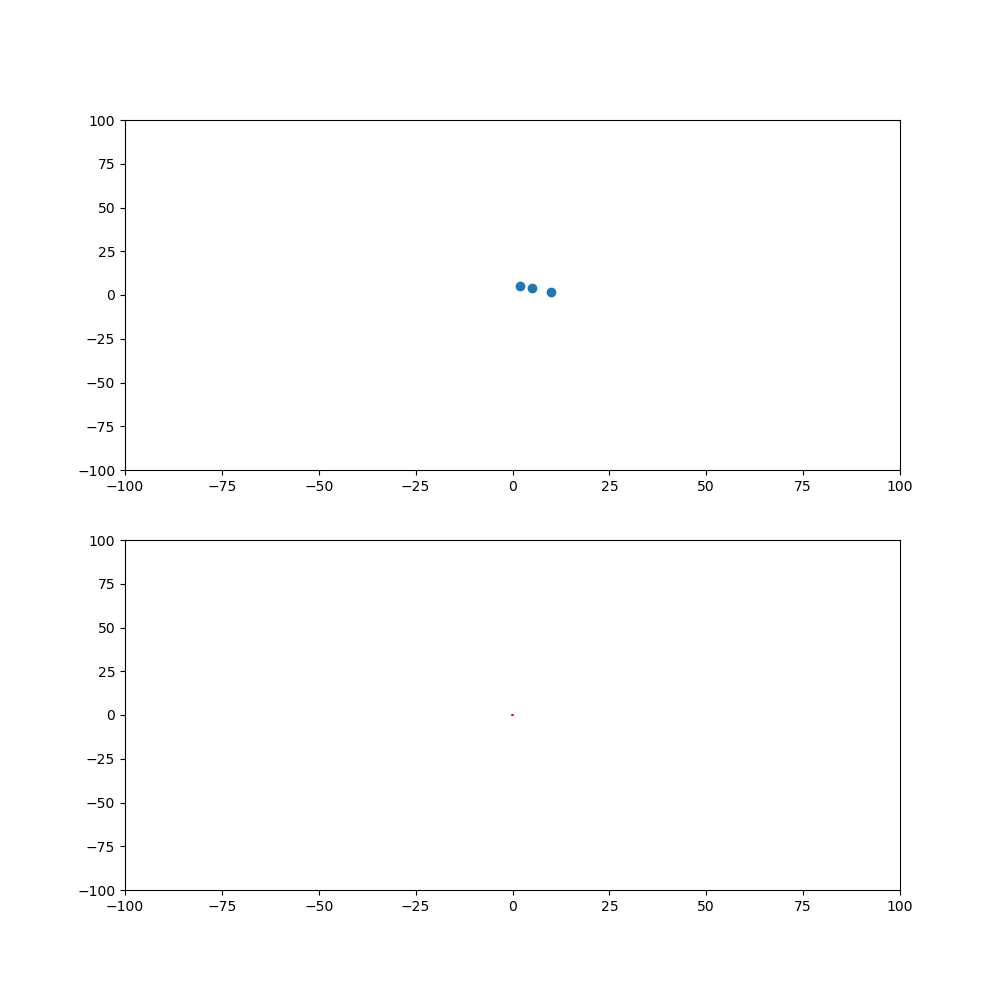
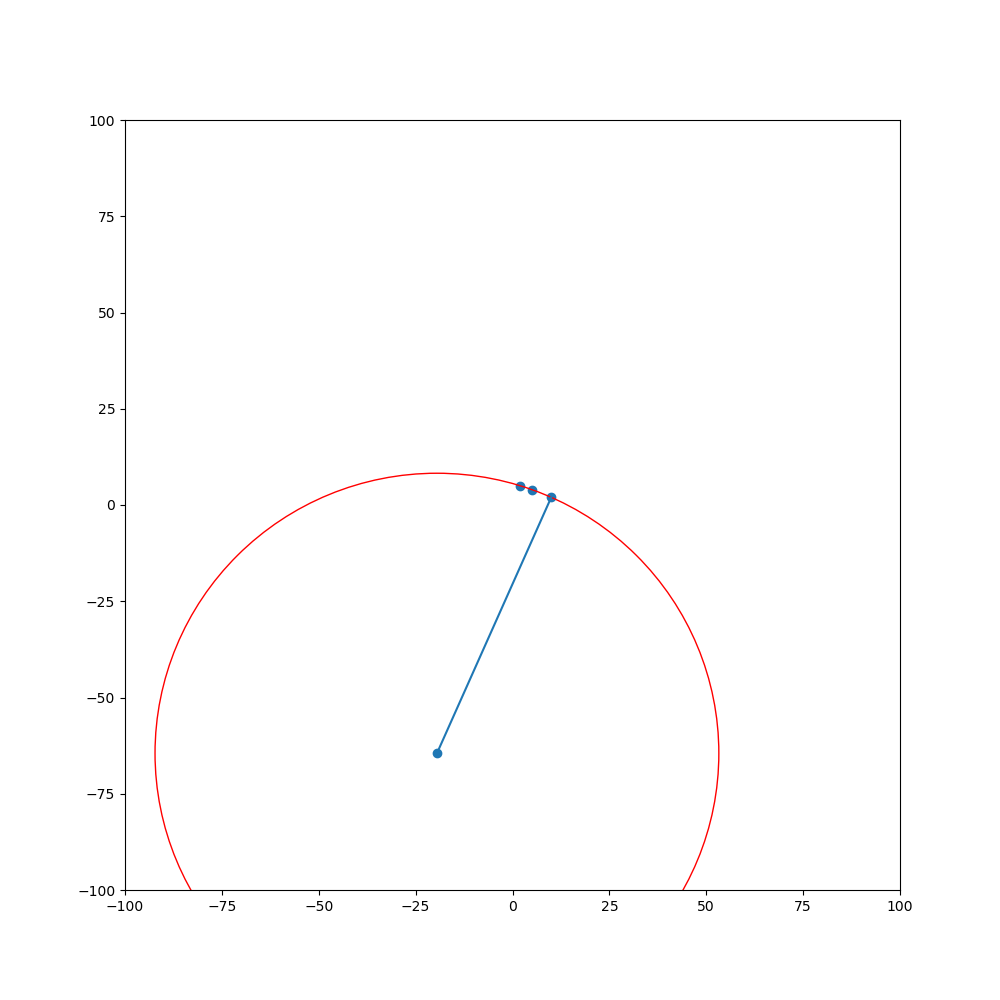
-
-

diff --git a/image_task/image_preprocessing/find_one_circle.py b/image_task/image_preprocessing/find_one_circle.py
@@ -2,11 +2,12 @@ import numpy as np
 import torch
 import matplotlib.pyplot as plt
 from matplotlib.patches import Circle
-# import tensorflow as tf
+import tensorflow as tf
 import math
 import scipy
+import time
 
-# tf.enable_eager_execution()
+tf.enable_eager_execution()
 
 
 def gauss_newton():
@@ -30,13 +31,20 @@ def using_three_points():
         @param * psRelMatchPos:  원의 중심점 좌표
         @param * psCenterPoint:  세점들의 좌표
         @return Error code
+        
+    1. figure는 전체 하얀 종이, Axes는 네모로 나누어지는 구간이라고 생각하시면 됩니다. plt.subplots()에 입력하는 ncols, nrows에 따라 가로 세로 공간이 나누어집니다.
+    2. 네 그렇습니다. 참고로 nrows=2, ncols=2로 입력하시면 네 개로 나누어집니다. 이 때는 2차원 배열이 되기 때문에 ax[1,0] 식으로 지정해야 합니다.
+    3. 객체를 Axes에 붙이는 역할을 합니다. 포스트잇을 A4에 붙이듯 딱 붙이는 명령입니다.
+        
     """
-    
-    # sympy나 scipy
     
     x = [2, 5, 10]
     y = [5, 4, 2]
     
+    # x = [2, 10, 6]
+    # y = [5, 3, 2]
+    
+    # circle 구하기 http://egloos.zum.com/heilow/v/418569
     d1=(x[1]-x[0])/(y[1]-y[0]);
     d2=(x[2]-x[1])/(y[2]-y[1]);
     
@@ -49,38 +57,62 @@ def using_three_points():
     print(cy)
     print(r)
     
-    circle1 = plt.Circle((0, 0), 0.2, color='r', fill=False)
-    # scatt = plt.scatter(x, y)
+    x.append(cx)
+    y.append(cy)
     
-    fig, ax = plt.subplots(nrows=2, ncols=1, figsize=(10, 10))
     
-    ax[0].set_xlim([-100, 100])
-    ax[0].set_ylim([-100, 100])
-    ax[1].set_xlim([-100, 100])
-    ax[1].set_ylim([-100, 100])
+    # 접선방정식 구하기 m = 기울기, n = y 절편
+    m = (-1)*((cx-x[2])/[cy-y[2]])
+    n = (-1)*(m*x[2]) + y[2]
     
-    ax[0].scatter(x, y)
-    ax[1].add_patch(circle1)
+    x_line_point_list = list()
+    y_line_point_list = list()
+    
+    x_val1 = 1
+    x_val2 = 2
+    
+    y_1 = m*x_val1 + n
+    y_2 = m*x_val2 + n
+    
+    x_line_point_list.append(x_val1)
+    x_line_point_list.append(x_val2)    
+    y_line_point_list.append(y_1)    
+    y_line_point_list.append(y_2)    
+    
+    
+    
+    
+    circle1 = plt.Circle((cx, cy), r, color='r', fill=False)
+    
+    fig, ax = plt.subplots(figsize=(10, 10))
+    
+    ax.set_xlim([-100, 100])
+    ax.set_ylim([-100, 100])
+
+    
+    ax.scatter(x, y)
+    ax.add_patch(circle1)
+    ax.plot([cx, x[2]], [cy, y[2]])
     
     fig.savefig("./aa.png")
        
-    # ATF_ERR_T CiADAS_ReconstructorDlg ::Get_Three_Point_Circle(float* r, AT_FPOINT* psRelMatchPos, const AT_FPOINT* psCenterPoint)
-    # {
-    #     float d1 = (psCenterPoint[1].x - psCenterPoint[0].x)/(psCenterPoint[1].y - psCenterPoint[0].y); 
-    #     float d2 = (psCenterPoint[2].x - psCenterPoint[1].x)/(psCenterPoint[2].y - psCenterPoint[1].y); 
-        
-    #     float cx = ((psCenterPoint[2].y - psCenterPoint[0].y) + (psCenterPoint[1].x + psCenterPoint[2].x) * d2 - (psCenterPoint[0].x + psCenterPoint[1].x) * d1)/(2 * (d2 - d1)); 
-    #     float cy = (-d1 * (cx-(psCenterPoint[0].x + psCenterPoint[1].x)/2) + (psCenterPoint[0].y + psCenterPoint[1].y)/2 );
-        
-    #     psRelMatchPos->x = cx;
-    #     psRelMatchPos->y = cy;
-    #     *r = sqrt(pow((float)(psCenterPoint[0].x - cx), 2) + pow((float)(psCenterPoint[0].y - cy), 2));
-    #     return ATF_ERR_NONE;
-    # }
-        
-
 
 def gradient_descent():
+    
+    x = [np.random.rand() * 10 for i in range(100)]
+    x = np.array(x)
+    y = list()
+    
+    for i in range(len(x)):
+        y_item = np.sqrt(25 - np.square(x[i]-5))
+        if np.random.rand() < 0.5:
+            y_item = -y_item + 5.0
+        else:
+            y_item = y_item + 5.0
+        y.append(y_item)
+
+    y = np.array(y) + np.random.rand(100) * 4 - 2
+    
     # gradient descent
     # parameters initialize
     x_center = tf.Variable(1.0)
@@ -92,8 +124,9 @@ def gradient_descent():
     y_c_list = list()
     r_square_list = list()
 
-    # iteration 
-    for e in range(10000):
+    # iteration
+    t = time.time()
+    for e in range(4000):
         index = np.random.randint(0, 100, 10)
         with tf.GradientTape() as tape:
             dist = tf.square(x_center - x[index]) + tf.square(y_center - y[index])
@@ -109,6 +142,9 @@ def gradient_descent():
         y_c_list.append(y_center.numpy())
         r_square_list.append(r_square.numpy())
 
+    t2 = time.time()
+    time_result = time.localtime(t2 - t)
+    print(f"time: {time_result.tm_sec}")
 
     print(x_center)
     print(y_center)
@@ -133,26 +169,12 @@ if __name__ == "__main__":
     
     # data load x는 random sample, y는 원방정식을 기준으로 bais를 주어 생성
     
-    # x = [np.random.rand() * 10 for i in range(100)]
-    # x = np.array(x)
-
-    # y = list()
-    
-    # for i in range(len(x)):
-    #     y_item = np.sqrt(25 - np.square(x[i]-5))
-    #     if np.random.rand() < 0.5:
-    #         y_item = -y_item + 5.0
-    #     else:
-    #         y_item = y_item + 5.0
-    #     y.append(y_item)
-
-    # y = np.array(y) + np.random.rand(100) * 4 - 2
-    
+  
     
     # gradient_descent
-    # gradient_descent()
+    gradient_descent()
     
     # using three point 
-    using_three_points()
+    # using_three_points()
     
 
